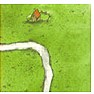
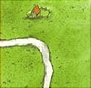
Merge commit 2.0 frontend

diff --git a/client.js b/client.js
@@ -3,17 +3,22 @@ var gridSize, canvasSize, canvas, ctx, smallCanvas, manSize, currImg, rotation=0
 
 var id
 var socket = io()
-document.addEventListener("DOMContentLoaded", function() 
+
+var bnd = new Image()
+bnd.src = "../tlo2.png"
+
+document.addEventListener("DOMContentLoaded", function()
 {
 	canvas = document.getElementById("mainCanvas")
 	smallCanvas = document.getElementById("smallCanvas")
 	var rect = canvas.getBoundingClientRect()
 	canvasSize = canvas.width
 	ctx = canvas.getContext("2d")
+	ctx.drawImage(bnd, 0, 0, canvasSize, canvasSize)
 	gridSize = canvasSize/boardSize
-	manSize = gridSize/3
+	manSize = 0.4*gridSize
 	socket.emit('join', {
-		'roomNo': roomNo, 
+		'roomNo': roomNo,
 		'canvas': {
 			'x': rect.left,
 			'y': rect.top,
@@ -32,7 +37,7 @@ function newGame()
 	socket.emit('newgame')
 }
 
-function getMousePos(evt) 
+function getMousePos(evt)
 {
 	var rect = canvas.getBoundingClientRect()
 	return {
@@ -52,6 +57,7 @@ socket.on('id', function(data)
 socket.on('newgame', function()
 {
 	ctx.clearRect(0, 0, canvasSize, canvasSize)
+	ctx.drawImage(bnd, 0, 0, canvasSize, canvasSize)
 	/*
   	window.addEventListener('click', function (e) {
 		// wyślij sygnał: getClick(e)
@@ -72,7 +78,7 @@ socket.on('drawPiece', function(data) {
 		//ctx.drawImage(img, x, y)
 		console.log(data.piece.rotation)
 	}
-	else 
+	else
 	{
 		ctx.save()
 		ctx.translate(x+gridSize/2, y+gridSize/2)
@@ -130,7 +136,7 @@ socket.on('rotate', function(r)
 	c.rotate(rotation*Math.PI/2)
 	c.drawImage(img, s/(-2), s/(-2), s, s)
 	c.restore()
-	
+
 })
 
 socket.on('endGame', function()
@@ -150,4 +156,3 @@ socket.on('stats', function(data)
 	}
 	document.getElementById("stats").innerHTML = inner + "</table>"
 })
-
